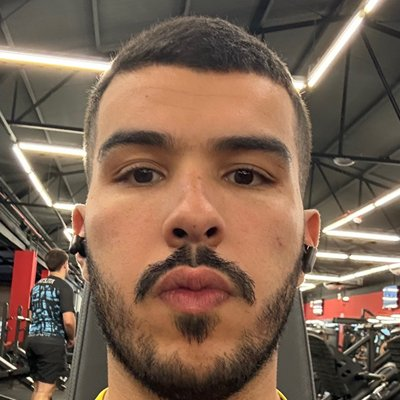
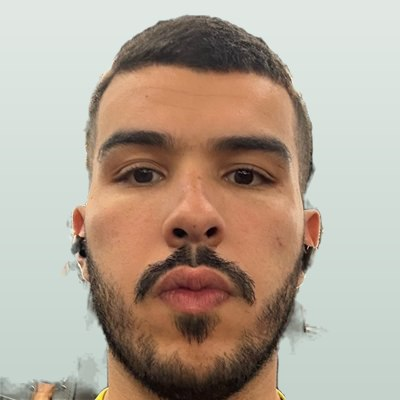
Stack só com ferramentas usadas e foto com fundo neutro

diff --git a/index.html b/index.html
@@ -13,7 +13,7 @@
   <link rel="preconnect" href="https://fonts.googleapis.com">
   <link rel="preconnect" href="https://fonts.gstatic.com" crossorigin>
   <link href="https://fonts.googleapis.com/css2?family=Archivo:wdth,wght@62..125,400..800&family=IBM+Plex+Mono:wght@400;500&display=swap" rel="stylesheet">
-  <link rel="stylesheet" href="assets/styles.css?v=a6">
+  <link rel="stylesheet" href="assets/styles.css?v=a8">
   <script>
     try { var t = localStorage.getItem("planta-tema"); if (t) document.documentElement.dataset.theme = t; } catch (e) {}
   </script>
@@ -26,7 +26,7 @@
       <div class="intro">
         <div class="id-row">
           <!-- Foto de perfil: salve como assets/foto.jpg. Sem o arquivo, o espaço some. -->
-          <img class="avatar" src="assets/foto.jpg" alt="Foto de Luan de Almeida Lourenço" width="64" height="64" hidden onload="this.hidden = false">
+          <img class="avatar" src="assets/foto.jpg?v=2" alt="Foto de Luan de Almeida Lourenço" width="64" height="64" hidden onload="this.hidden = false">
           <h1>Luan de Almeida Lourenço</h1>
         </div>
         <p class="lede">Estudo Engenharia Química na UFSC e construo sistemas com agentes de IA. Cada equipamento deste fluxograma é um projeto real: clique para abrir a folha de dados.</p>
@@ -91,7 +91,7 @@
   <section class="about" id="sobre" aria-label="Sobre mim">
     <div class="tabs" role="tablist" aria-label="Sobre mim">
       <button type="button" role="tab" class="tab" id="tab-trabalho" aria-controls="como-trabalho" aria-selected="true">Como eu trabalho</button>
-      <button type="button" role="tab" class="tab" id="tab-ia" aria-controls="stack-ia" aria-selected="false" tabindex="-1">Stack de IA</button>
+      <button type="button" role="tab" class="tab" id="tab-ia" aria-controls="stack-ia" aria-selected="false" tabindex="-1">Stack</button>
       <button type="button" role="tab" class="tab" id="tab-idiomas" aria-controls="idiomas" aria-selected="false" tabindex="-1">Idiomas</button>
       <button type="button" role="tab" class="tab" id="tab-aprofundar" aria-controls="aprofundar" aria-selected="false" tabindex="-1">O que quero aprofundar</button>
       <button type="button" role="tab" class="tab" id="tab-contato" aria-controls="contato" aria-selected="false" tabindex="-1">Contato</button>
@@ -111,26 +111,15 @@
     </div>
 
     <div class="panel" role="tabpanel" id="stack-ia" aria-labelledby="tab-ia" tabindex="0" hidden>
-      <h2>Stack de IA</h2>
-      <p class="notes-sub">As peças que eu uso para montar agentes e ligar a IA ao mundo real.</p>
-      <ul class="stack">
-        <li>
-          <b>LLMs</b>
-          <p>Claude, GPT e Gemini. Escolho o modelo pelo papel: um rápido e barato para coordenar, um mais forte para desenvolver e um de outro provedor para revisar.</p>
-        </li>
-        <li>
-          <b>MCP</b>
-          <p>Model Context Protocol, o padrão que liga agentes a ferramentas e dados. O LUAN OS expõe 11 ferramentas por MCP, e meus agentes usam MCP para falar com agenda, e-mail e arquivos.</p>
-        </li>
-        <li>
-          <b>Strands Agents</b>
-          <p>SDK open source da AWS para construir agentes em Python a partir de um modelo, um prompt e um conjunto de ferramentas.</p>
-        </li>
-        <li>
-          <b>FastMCP</b>
-          <p>Framework em Python para criar servidores e clientes MCP com pouco código, transformando funções comuns em ferramentas que um agente consegue chamar.</p>
-        </li>
-      </ul>
+      <h2>Stack</h2>
+      <p class="notes-sub">Ferramentas com que eu já trabalhei nos projetos deste fluxograma.</p>
+      <dl class="stack">
+        <div><dt>IA e agentes</dt><dd><span>LLMs: Claude, GPT e Gemini</span><span>MCP</span><span>Claude Code</span><span>Codex</span><span>Engenharia de prompt e de contexto</span></dd></div>
+        <div><dt>Linguagens</dt><dd><span>TypeScript</span><span>Python</span><span>SQL</span><span>Google Apps Script</span><span>C++</span></dd></div>
+        <div><dt>Backend e dados</dt><dd><span>Cloudflare Workers</span><span>Cloudflare D1 (SQLite)</span><span>Drizzle ORM</span><span>esbuild</span></dd></div>
+        <div><dt>Testes e qualidade</dt><dd><span>node:test</span><span>TypeScript (tsc)</span><span>Revisão cruzada entre modelos</span></dd></div>
+        <div><dt>Ferramentas</dt><dd><span>Git e GitHub</span><span>Excel avançado</span><span>Power BI</span><span>Google Workspace</span><span>Canva</span></dd></div>
+      </dl>
     </div>
 
     <div class="panel" role="tabpanel" id="idiomas" aria-labelledby="tab-idiomas" tabindex="0" hidden>
@@ -215,7 +204,7 @@
     </section>
   </noscript>
 
-  <script src="assets/data.js?v=a6"></script>
-  <script src="assets/app.js?v=a6"></script>
+  <script src="assets/data.js?v=a8"></script>
+  <script src="assets/app.js?v=a8"></script>
 </body>
 </html>

diff --git a/assets/styles.css b/assets/styles.css
@@ -503,11 +503,13 @@ h1 {
 .scale--native i:last-child { background: var(--flow); color: #1b1300; border-color: var(--flow); }
 .langs p { margin: 12px 0 0; max-width: 62ch; }
 
-/* Stack de IA */
-.stack { list-style: none; margin: 0; padding: 0; border-top: 2px solid var(--ink); display: grid; grid-template-columns: repeat(2, 1fr); }
-.stack li { padding: 18px 24px 20px 0; border-bottom: 1px solid var(--grid-major); }
-.stack b { font-size: 21px; font-stretch: 110%; }
-.stack p { margin: 6px 0 0; max-width: 52ch; }
+/* Stack */
+.stack { margin: 0; border-top: 2px solid var(--ink); }
+.stack > div { display: grid; grid-template-columns: 190px 1fr; gap: 6px 24px; padding: 16px 0; border-bottom: 1px solid var(--grid-major); }
+.stack dt { font-weight: 700; font-stretch: 110%; color: var(--ink); }
+.stack dd { margin: 0; display: flex; flex-wrap: wrap; gap: 6px 22px; color: var(--ink); }
+.stack dd span { position: relative; }
+.stack dd span + span::before { content: ""; position: absolute; left: -12px; top: 50%; width: 4px; height: 4px; margin-top: -2px; border-radius: 50%; background: var(--ink-soft); }
 
 /* Contato */
 .contacts { list-style: none; margin: 0; padding: 0; border-top: 2px solid var(--ink); }
@@ -577,6 +579,7 @@ h1 {
   .about { padding: 44px 18px 56px; }
   .tab { padding: 10px 12px; font-size: 14px; }
   .contacts li { grid-template-columns: 1fr auto; }
+  .stack > div { grid-template-columns: 1fr; }
   .c-label { grid-column: 1 / -1; }
   .texto dl { grid-template-columns: 1fr; gap: 0; }
   .texto dd { margin-bottom: 8px; }
